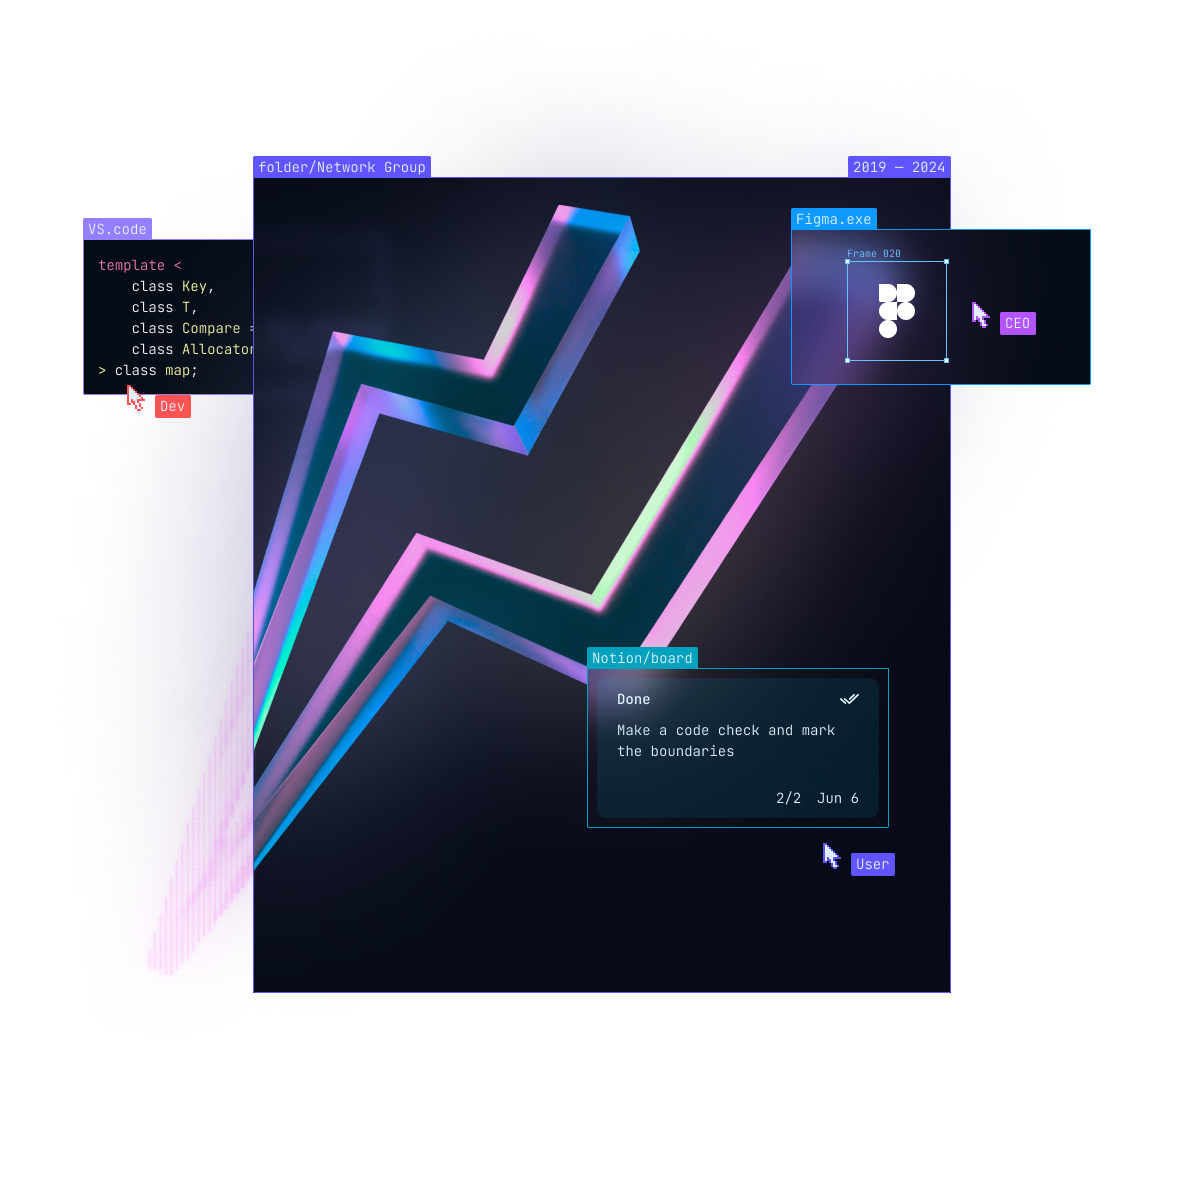
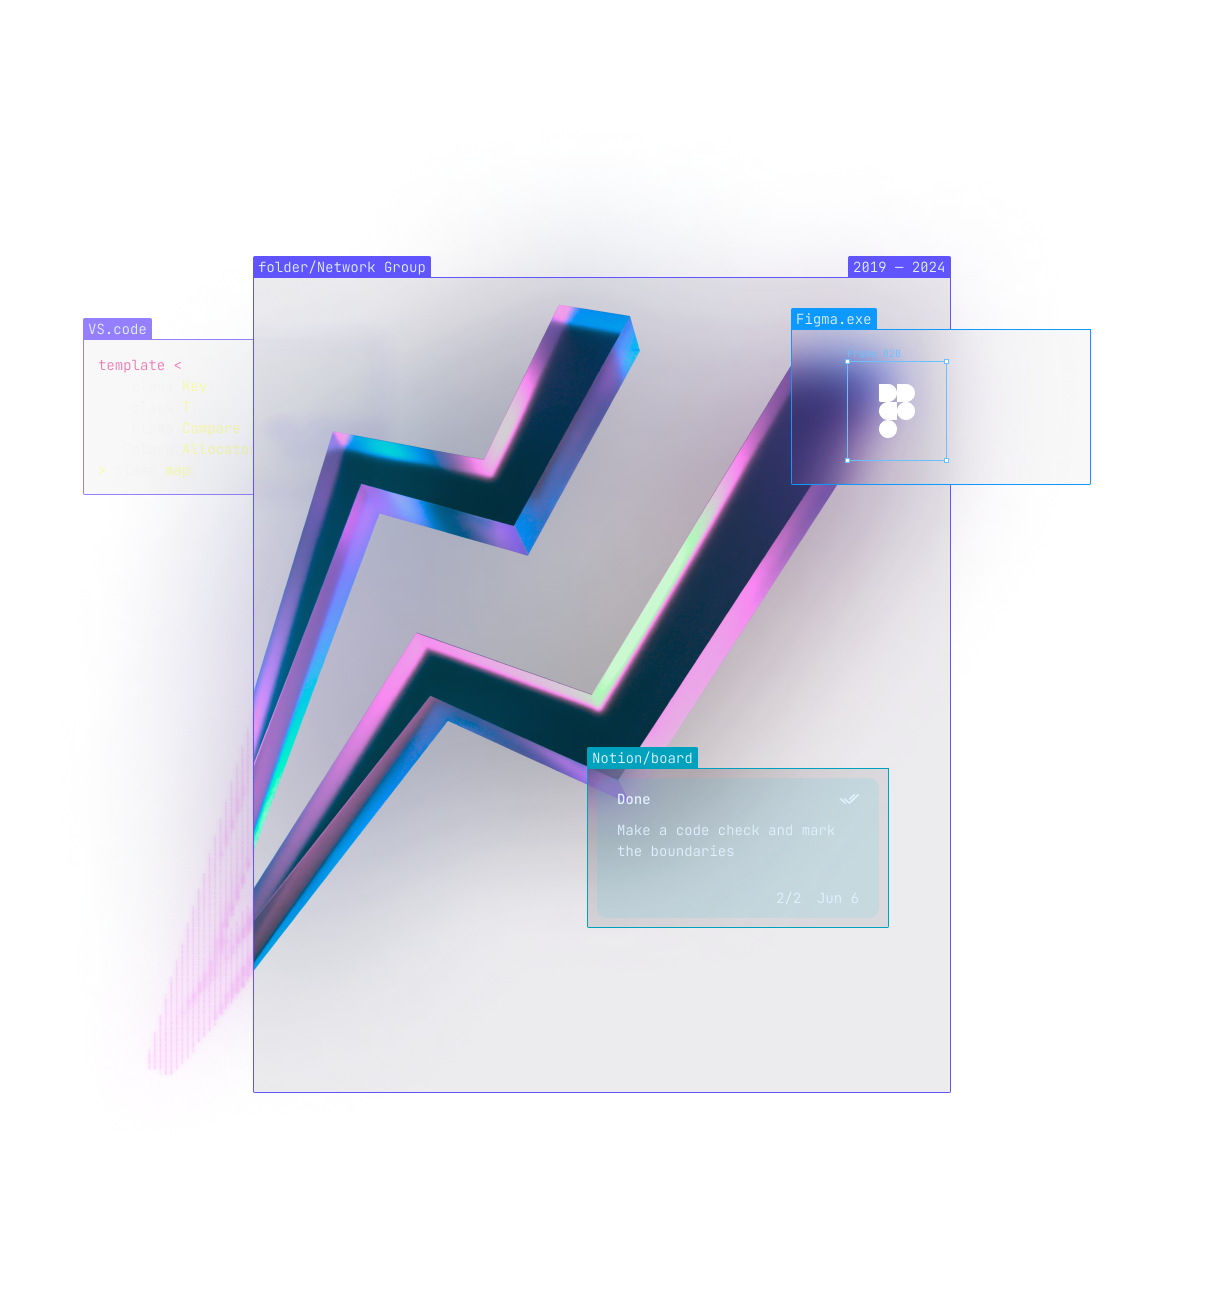
added cursors animation

diff --git a/src/App.vue b/src/App.vue
@@ -180,6 +180,10 @@ export default {
     const currentYear = ref(new Date().getFullYear());
     const swiperRef = ref(null)
     const scrollbarThumb = ref(null);
+    const cursorCeo = ref(null);
+    const cursorUser = ref(null);
+    const cursorDev = ref(null);
+    const cursorUserMobile = ref(null)
 
     // Фильтрация cards чтобы показывалось от старых к новым
     const filteredTimelines = computed(() => {
@@ -294,7 +298,9 @@ export default {
     };
 
     const getPic = (index) => {
-      return process.env.BASE_URL + 'assets/img/' + index;
+      console.log(index)
+      return 'https://network-group.vercel.app/' + 'assets/img/' + index;
+              // https://network-group.vercel.app/     assets/img/ ng-logo.png
     }
 
     const animateCount = (element, endValue) => {
@@ -371,6 +377,16 @@ export default {
       document.querySelectorAll('.count').forEach(el => {
         animateCount(el, el.getAttribute('data-end'));
       });
+
+      gsap.set(cursorCeo.value, { x: '-100%', y: '-100%' });
+      gsap.set(cursorUser.value, { x: '100%', y: '-100%' });
+      // gsap.set(cursorUserMobile.value, { x: '100%', y: '-100%' });
+      gsap.set(cursorDev.value, { x: '-100%', y: '100%' });
+
+      gsap.to(cursorCeo.value, { duration: 2, x: '-50%', y: '450%', ease: 'power2.inOut' });
+      gsap.to(cursorUser.value, { duration: 2, x: '-30%', y: '-750%', ease: 'power2.inOut', delay: 0.5 });
+      gsap.to(cursorUserMobile.value, { duration: 2, x: '0%', y: '-500%', ease: 'power2.inOut', delay: 0.5 });
+      gsap.to(cursorDev.value, { duration: 2, x: '310%', y: '-240%', ease: 'power2.inOut', delay: 0.5 });
     });
 
     watch(isSidebarOpen, (newVal) => {
@@ -411,7 +427,11 @@ export default {
       getCircleRadius,
       slideNext,
       slidePrev,
-      scrollbarThumb
+      scrollbarThumb,
+      cursorCeo,
+      cursorUser,
+      cursorDev,
+      cursorUserMobile
     };
   },
 };
@@ -431,12 +451,17 @@ export default {
               <p>Таким образом реализация намеченных плановых заданий в значительной степени обуславливает создание систем массового участия.</p>
               <button @click="scrollToTarget">Открытые вакансии [12]</button>
               <div class="first-block__img-div-mobile">
-                <img src="./assets/img/cursor.png" alt="Cursor">
+                <img src="./assets/img/cursor-user.png" alt="Cursor" ref="cursorUserMobile">
               </div>
             </div>
           </div>
           <div class="first-block__img-div">
-            <img src="./assets/img/bg.png" alt="Background image">
+            <img src="./assets/img/bg.png" alt="Background image" class="first-block__img__div__img">
+            <div class="cursors">
+              <img src="./assets/img/cursor-ceo.svg" alt="Cursor of Ceo" class="cursor cursor-ceo" ref="cursorCeo" />
+              <img src="./assets/img/cursor-user.svg" alt="Cursor of User" class="cursor cursor-user" ref="cursorUser" />
+              <img src="./assets/img/cursor-dev.svg" alt="Cursor of Developer" class="cursor cursorDev" ref="cursorDev" />
+            </div>
           </div>
         </div>
       </section>

diff --git a/src/assets/css/media.css b/src/assets/css/media.css
@@ -1,6 +1,24 @@
-@media (max-width: 1919px) {
-    .first-block__img-div img {
+@media (max-width: 1920px) {
+    .first-block__img__div__img{
         width: 1020px;
+    }
+
+    .first-block__img-div img:nth-child(2) {
+        position: absolute;
+        bottom: -12%;
+        right: 25%;
+    }
+
+    .first-block__img-div img:nth-child(3) {
+        position: absolute;
+        bottom: 53%;
+        left: -7%;
+    }
+
+    .first-block__img-div .cursors img:nth-child(1) {
+        position: absolute;
+        top: 0%;
+        right: 13%;
     }
 }
 
@@ -9,7 +27,7 @@
         top: -19% !important;
     }
 
-    .first-block__img-div img {
+    .first-block__img__div__img {
         width: 750px;
         margin-top: 70px;
     }
@@ -35,6 +53,24 @@
         max-width: 80%;
         margin: 0 auto;
     }
+
+    .first-block__img-div img:nth-child(2) {
+        position: absolute;
+        bottom: -23%;
+        right: 25%;
+    }
+
+    .first-block__img-div img:nth-child(3) {
+        position: absolute;
+        bottom: 39%;
+        left: -14%;
+    }
+
+    .first-block__img-div .cursors img:nth-child(1) {
+        position: absolute;
+        top: 9%;
+        right: 10%;
+    }
 }
 
 
@@ -42,6 +78,29 @@
     .first-block__text-div__logo img {
         width: 36px;
         height: 29px;
+    }
+
+    .first-block__img-div .cursors img {
+        width: 30px;
+        height: 30px;
+    }
+
+    .first-block__img-div .cursors img:nth-child(1) {
+        position: absolute;
+        top: 21%;
+        right: 13%;
+    }
+
+    .first-block__img-div img:nth-child(2) {
+        position: absolute;
+        bottom: -8%;
+        right: 27%;
+    }
+
+    .first-block__img-div img:nth-child(3) {
+        position: absolute;
+        bottom: 43%;
+        left: -8%;
     }
 
     .first-block__text-div__logo p {
@@ -56,7 +115,7 @@
         line-height: 25px;
     }
 
-    .first-block__img-div img {
+    .first-block__img__div__img{
         width: 650px;
         margin-top: 100px;
     }
@@ -77,8 +136,22 @@
         margin: 0 auto;
     }
 
-    .first-block__img-div img {
-        width: 484px;
+    .first-block__img-div .cursors img:nth-child(1) {
+        position: absolute;
+        top: 21%;
+        right: 13%;
+    }
+
+    .first-block__img-div img:nth-child(2) {
+        position: absolute;
+        bottom: -7%;
+        right: 25%;
+    }
+
+    .first-block__img-div img:nth-child(3) {
+        position: absolute;
+        bottom: 43%;
+        left: -8%;
     }
 
     .first-block__text-div {
@@ -133,7 +206,7 @@
         display: block;
         left: 60%;
         position: absolute;
-        top: 53%;
+        /*top: 53%;*/
     }
 
     .first-block {
@@ -309,7 +382,7 @@
     .first-block__img-div-mobile {
         position: absolute;
         left: 60%;
-        top: 70%;
+        top: 120%;
     }
 
     .fourth-block__map {

diff --git a/src/assets/css/main.css b/src/assets/css/main.css
@@ -48,8 +48,45 @@
     background: #6A5EFF;
 }
 
-.first-block__img-div img{
+.first-block__img__div__img{
     margin-left: -26px;
+    margin-top: -100px;
+}
+
+.first-block__img-div {
+    position: relative;
+    width: 100%;
+    height: 100%;
+}
+
+.cursors {
+    width: 100%;
+    height: 100%;
+}
+
+.cursor {
+    position: absolute;
+    width: 50px; /* adjust as needed */
+    height: 50px; /* adjust as needed */
+}
+
+.first-block__img-div img:nth-child(3) {
+    position: absolute;
+    bottom: 55%;
+    left: -5%;
+}
+
+.first-block__img-div img:nth-child(2) {
+    position: absolute;
+    bottom: -5%;
+    right: 25%;
+}
+
+
+.first-block__img-div .cursors img:nth-child(1) {
+    position: absolute;
+    top: 5%;
+    right: 15%;
 }
 
 .first-block__img-div-mobile {
